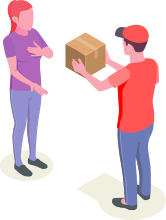
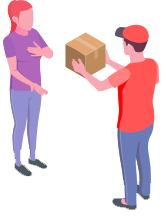
Se agregan etiquetas meta para optimizacion del SEO y redimencionan imagenes para reducir peso

Changed region(s): [[0.4518, 0.7909, 1.0, 1.0], [0.0, 0.6818, 0.3313, 0.8455]]

diff --git a/index.html b/index.html
@@ -3,6 +3,8 @@
 <head>
     <meta charset="UTF-8">
     <meta name="viewport" content="width=device-width, initial-scale=1.0">
+    <meta name="description" content=" Nos dedicamos desde 2007, al envio de todo tipo de paquetes en todo el Pais. Proximamente estaremos agregando el servicio de courier para que puedas recibir en casa tus compras hechas en el exterior.">
+    <meta name="keywords" content="envios, pauqeteria, express, envio express, envio de paquetes, envios baratos, envios correo, correo, mensajeria, envios internacionales, courier">
     <title>Mensajeria Express</title>
     <link rel="icon" href="img/favicon.png" type="image/png"/>
     <link rel="stylesheet" href="css/main.css">
@@ -97,14 +99,14 @@
         <div class="puerta">
            <a href="secciones/servicios.html"><img class="imgserv" src="img/puertapuerta.png" alt="puertapuerta"></a> 
            <div>
-                <p class="title">Puerta a Puerta</p>
+                <h3 class="title">Puerta a Puerta</h3>
                 <a href="secciones/servicios.html"><p class="btnmas">Saber mas</p></a>
             </div>  
         </div>
         <div class="retiro">
             <a href="secciones/servicios.html"><img class="imgserv" src="img/retiro.png" alt="retiro"></a>
             <div>
-                <p class="title">Retiro en sucursales</p>
+                <h3 class="title">Retiro en sucursales</h3>
                 <a href="secciones/servicios.html"><p class="btnmas">Saber mas</p></a>
             </div>       
         </div>
